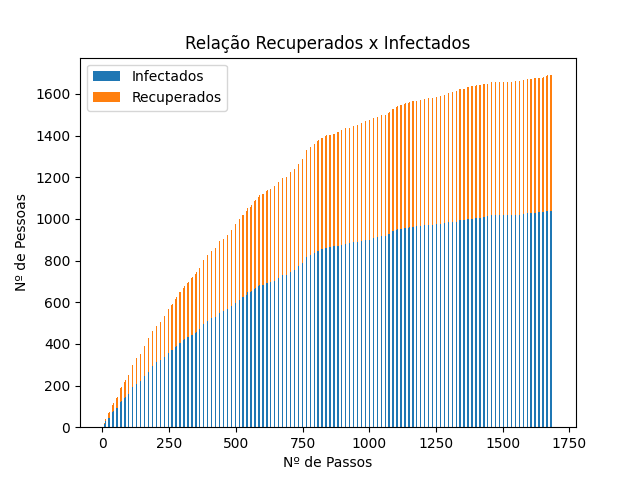
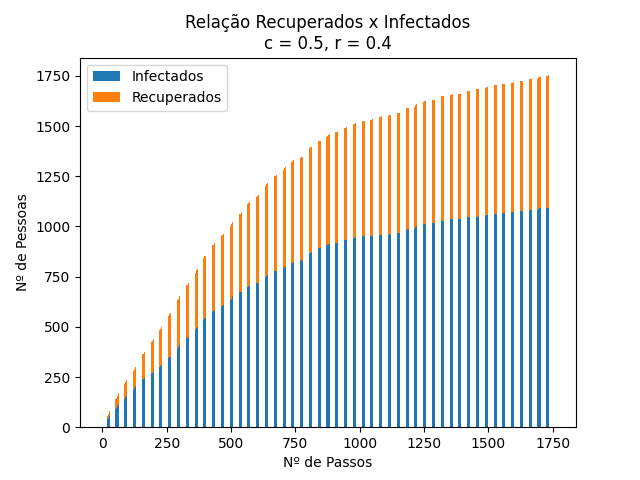
Adiciona novas imagens

diff --git a/tarefa5/main.py b/tarefa5/main.py
@@ -29,7 +29,7 @@ def modeloContagio(c=0.9, r=0.4):
     
     ax.set_ylabel('Nº de Pessoas')
     ax.set_xlabel('Nº de Passos')
-    ax.set_title('Relação Recuperados x Infectados')
+    ax.set_title(f'Relação Recuperados x Infectados\nc = {c}, r = {r}')
     ax.legend()
 
     plt.savefig(f"./fig_{c}_{r}.png")
